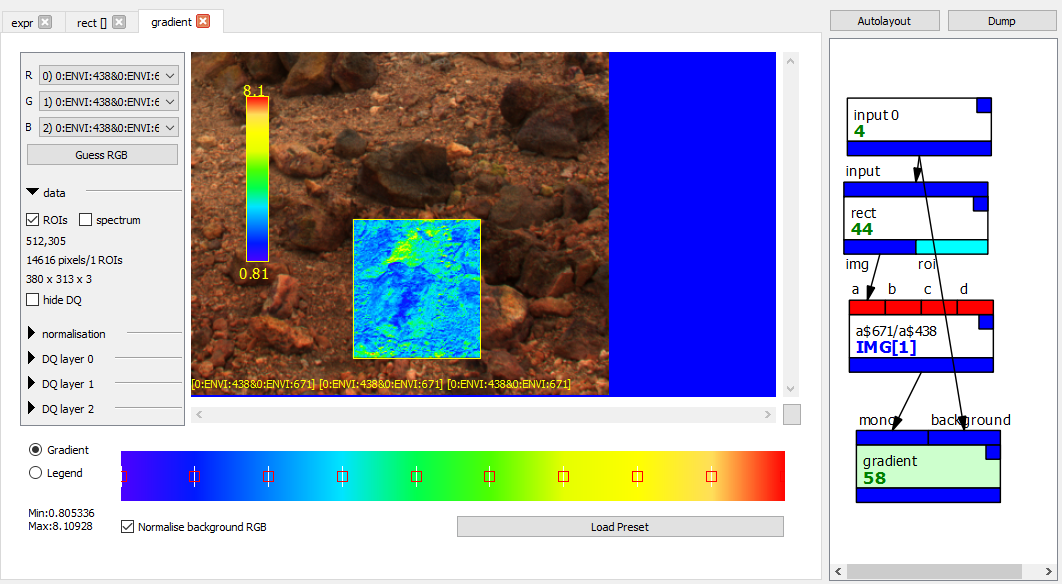
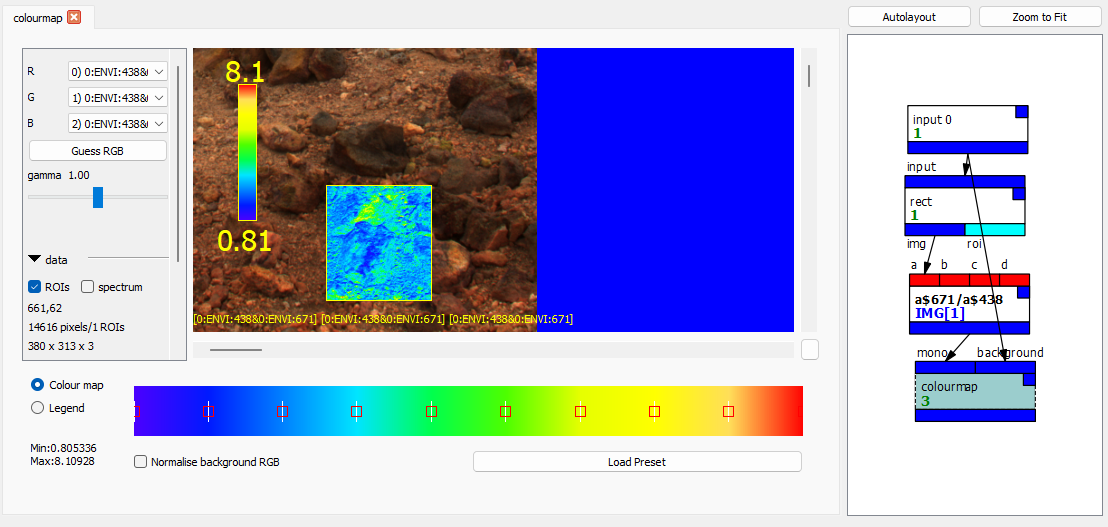
work in progress, updating for JOANEY HOW

diff --git a/docs/recipes/parametermap.md b/docs/recipes/parametermap.md
@@ -2,7 +2,7 @@
 
 Download graph: [parametermap.pcot](graphs/parametermap.pcot)
 
-![!Gradient node and graph.](screenshots/parametermap.png)
+![!Colourmap node and graph.](screenshots/parametermap.png)
 
 This graph demonstrates a false colour spectral parameter map.
 
@@ -13,9 +13,9 @@ ROI (where this makes sense).
 * The *rect* feeds into an *expr* which calculates the ratio
 between the 671nm and 438nm bands for the ROI. The output
 still carries the rectangular region of interest.
-* The *gradient* node takes the mono output of the *expr*,
+* The *colourmap* node takes the mono output of the *expr*,
 generates a false colour image of the normalised result (but only
-the area covered by the ROI)
+the area covered by the ROI) based on an editable colour gradient,
 and insets it into the RGB representation of the input. The position
 of the inset is taken from the ROI.
 

diff --git a/README.md b/README.md
@@ -41,11 +41,21 @@ at how existing recipes are structured will help enormously!
 ### How to copy to sitehost via Windows
 
 Build the files using `build`, copy them over to a Windows box (if you're
-not building on one). Then mount sitehost on Windows:
+not building on one), e.g.:
+
+```
+scp -r site /media/xfer/cookbooksite
+``
+
+Then mount sitehost on Windows by opening Explorer, going to This PC
+and selecting Add a Network Location from the right-click context menu.
+The address is:
 ```
 \\sitehost.disk.aber.ac.uk\pcot-aber-ac-uk
 ```
-and copy the files over.
+User name should be `PAU\jcf12`
+
+Then copy the files over. Takes ages.
 
 
 ### Mounting from Linux (deprecated)

diff --git a/docs/recipes/calibration.md b/docs/recipes/calibration.md
@@ -1,5 +1,12 @@
 # Calibration process (flatfielding and reflectance)
 
+!!!danger
+    This file probably won't actually work because the filter and
+    reflectance data is being updated, but the basic idea is sound! Please
+    [get back to me](mailto:jcf12@aber.ac.uk?subject="calibration.pcot in cookbook")
+    if I don't update it soon!
+
+
 ## Introduction
 Here, we process the image with flatfielding and conversion from DNs
 to $R^{\star}$. 
